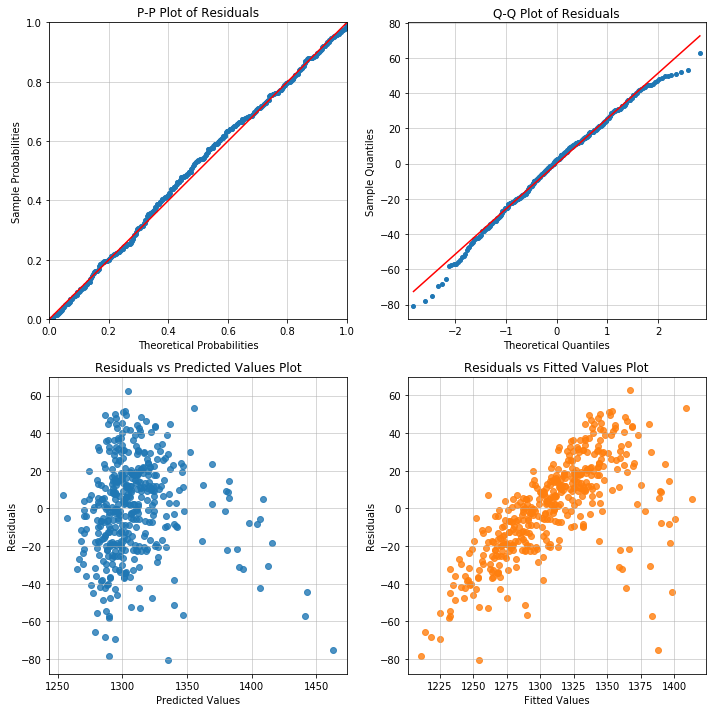
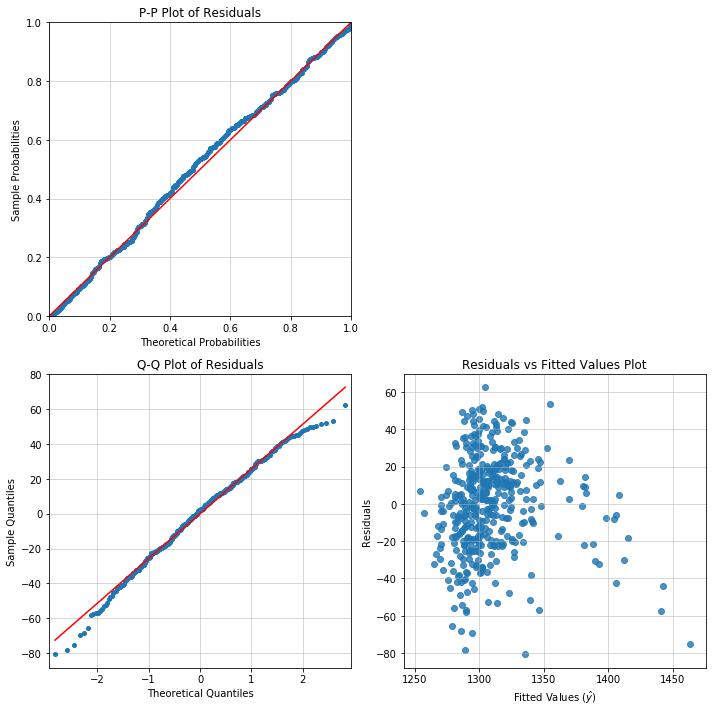
Update docs for new release

diff --git a/docs/reference/diagnostics.md b/docs/reference/diagnostics.md
@@ -12,8 +12,14 @@ The main methods are:
 - `variance_inflation_factors`
 - `heteroskedasticity_test`
 - `partial_regression_plot`
+- `wald_test`
 
-There are also methods for diagnostic plots such as `pp_plot` but they are exposed more conveniently in an OLS model object method.
+There are also methods for diagnostic plots such as `pp_plot` but they are exposed more conveniently in an OLS model object method:
+
+- `pp_plot`: P-P plot
+- `qq_plot`: Q-Q plot
+- `rvf_plot`: plot of residuals against fitted values
+- `rvp_plot`: plot of residuals against values of a predictor
 
 ## `BadApples`
 The **10 Minutes To Appelpy** notebook fits a **BadApples** instance, consuming a model of the California Test Score dataset.
@@ -88,3 +94,18 @@ The method requires these parameters:
 - `appelpy_model_object`: a fitted OLS model object.
 - `df`: the dataframe used in the model.
 - `regressor`: the additional variable in the partial regression.
+
+## Wald test
+The Wald test lets you do joint testing of hypotheses, e.g.
+
+- Are the coefficients of dummy columns for a categorical variable significantly different from 0?
+- Is the difference between two regressor coefficients, e.g. `beta_u - beta_v`, significantly different from 2?
+
+Pass a list of variables to the function for straightforward joint hypothesis testing of whether a coefficient is significantly different from zero.
+
+Pass a dict for testing of hypotheses against non-zero scalars, where the values are scalars and the keys are either strings or two-item tuples e.g.
+
+```python
+hypotheses_object = {('col_u', 'col_v'): 2}  # for the difference between two coefficients
+hypotheses_object = {'col_a' : 2}
+```

diff --git a/docs/reference/linear-model.md b/docs/reference/linear-model.md
@@ -30,7 +30,7 @@ There are three **important parameters** for initialising any model class in App
 
 - `df`: the dataframe to use for modelling.  This must have no NaN values, no infinite values, etc.
 - `y_list`: a list with the dependent variable column name.
-- `regressors_list`: a list of column names for independent variables (regressors).
+- `X_list`: a list of column names for independent variables (regressors).
 
 Other keyword arguments can be used when initialising the model class, e.g. `cov_type` to specify the type of standard errors in the model.
 
@@ -57,15 +57,15 @@ There is also a convenient `diagnostic_plot` method that consumes an OLS model o
 - P-P plot (`pp_plot`)
 - Q-Q plot (`qq_plot`)
 - Residuals vs fitted values plot (`rvf_plot`)
-- Residuals vs predicted values plot (`rvp_plot`)
+- Residuals vs predictor values plot (`rvp_plot`)
 
 Here is a useful recipe for producing a 2x2 grid of diagnostic plots with Matplotlib:
 ```python
 fig, axarr = plt.subplots(2, 2, figsize=(10, 10))
-model_nonrobust.diagnostic_plot('pp_plot', ax=axarr[0][0])
-model_nonrobust.diagnostic_plot('qq_plot', ax=axarr[0][1])
-model_nonrobust.diagnostic_plot('rvp_plot', ax=axarr[1][0])
-model_nonrobust.diagnostic_plot('rvf_plot', ax=axarr[1][1])
+model.diagnostic_plot('pp_plot', ax=axarr[0][0])
+model.diagnostic_plot('qq_plot', ax=axarr[1][0])
+model.diagnostic_plot('rvf_plot', ax=axarr[1][1])
+axarr[0, 1].axis('off')
 plt.tight_layout()
 ```
 

diff --git a/docs/intro/key-features.md b/docs/intro/key-features.md
@@ -32,10 +32,11 @@
 ## Model diagnostics
 It's easy enough to fit a model in Statsmodels.  Where Appelpy shines is the ability to do diagnostics using only the model object, instead of having to call multiple methods scattered across a library.  These are some diagnostics available:
 
-- One method for calling **diagnostic plots** to assess whether OLS assumptions hold in a model, e.g. `model.diagnostic_plot('rvp_plot')`.  The plots are similar to commands available in Stata, but here they are accessible within the Appelpy OLS model object.
+- One method for calling **diagnostic plots** to assess whether OLS assumptions hold in a model, e.g. `model.diagnostic_plot('rvf_plot')`.  The plots are similar to commands available in Stata, but here they are accessible within the Appelpy OLS model object.
 - `BadApples` class does a decomposition of influence analysis into three parts: leverage, outlier and influence measures.  The leverage vs residuals squared plot (similar to Stata's `lvr2plot`) can also be called from an instance of the class.
 - Identify extreme observations in a model based on common heuristics.
 - Perform diagnostics not implemented in the main Python libraries, e.g. studentized Breusch–Pagan test of heteroskedasticity.
+- Joint hypothesis testing, using built-in Python data structures (lists & dicts).
 
 ![OLS diagnostics plot](../img/2x2-diagnostics-ols.png)
 
